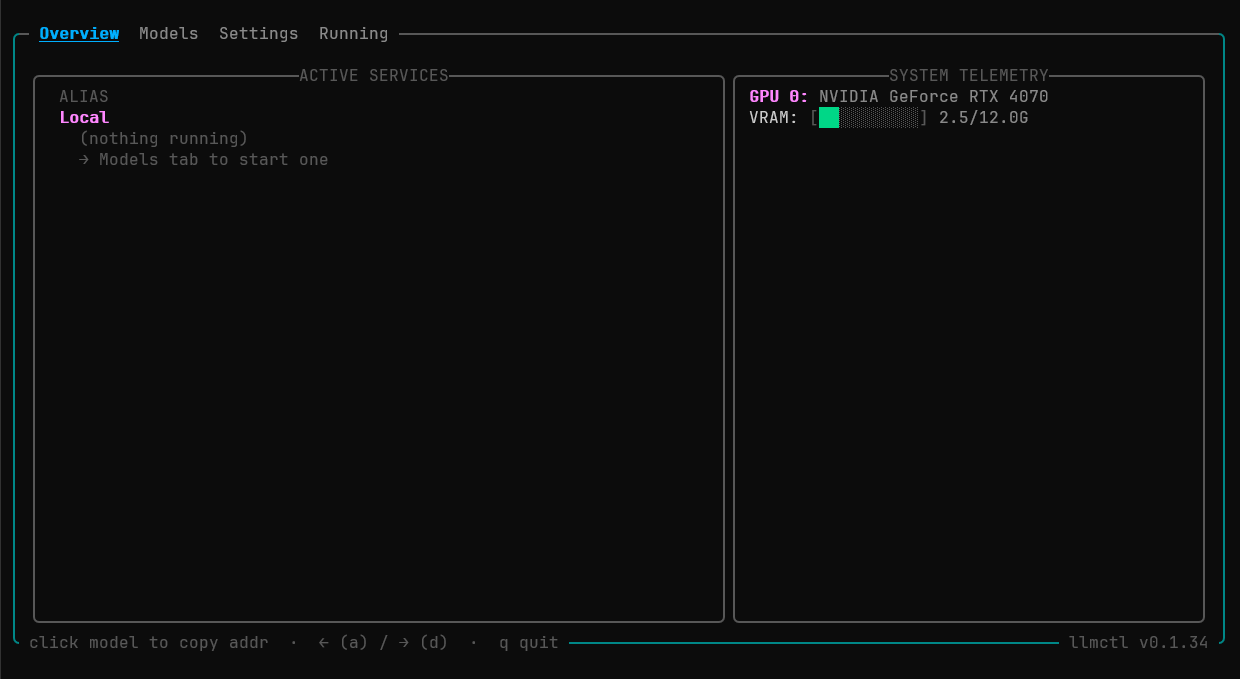
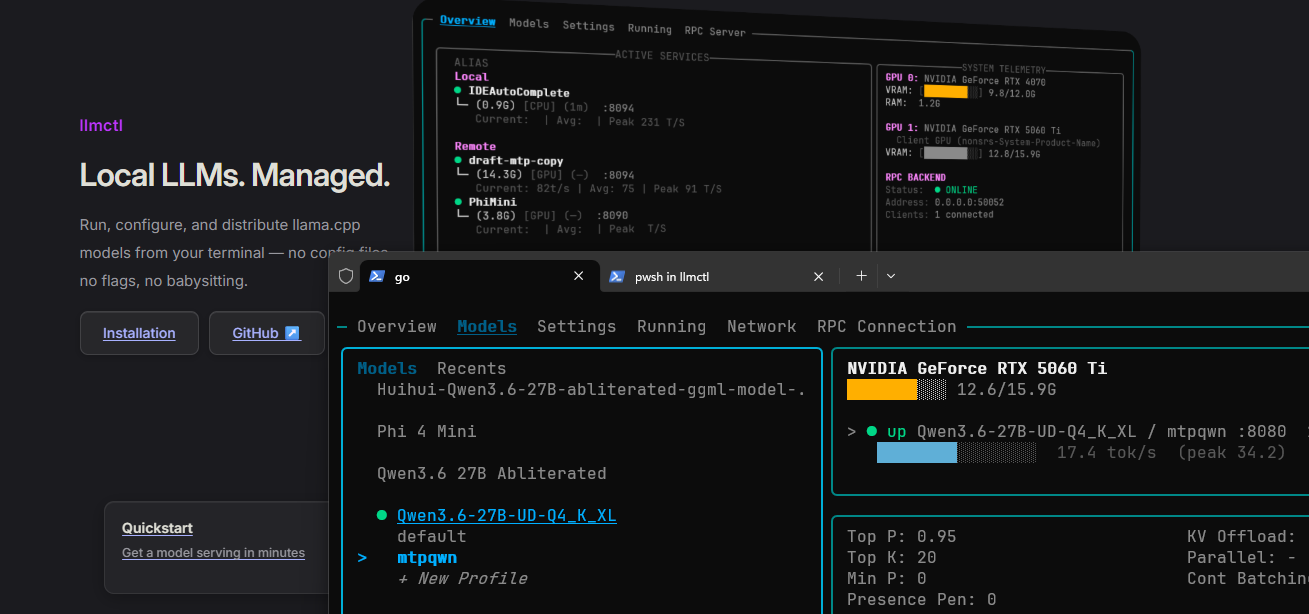
Add RPC layer split slider and redesign docs landing page
Adds a keyboard-controlled slider modal that appears when starting a
model with RPC enabled, letting the user distribute GPU layers between
the local GPU and the remote RPC server via --tensor-split. Also
redesigns the docs index landing page with a full-width hero layout
using the new landingshowcase.png screenshot.

diff --git a/internal/tui/rpc_layer_split.go b/internal/tui/rpc_layer_split.go
@@ -1,0 +1,99 @@
+package tui
+
+import (
+	"fmt"
+	"strings"
+
+	tea "github.com/charmbracelet/bubbletea"
+)
+
+type rpcLayerSplitState struct {
+	modelKey     string
+	profileKey   string
+	label        string
+	totalLayers  int
+	clientLayers int // layers on the local GPU; serverLayers = total - client
+}
+
+// rpcSplitApplies reports whether the RPC layer split slider should be shown
+// for a given row: RPC must be enabled, the profile must have GPU layers, and
+// there must be an actual RPC endpoint to connect to.
+func (m Model) rpcSplitApplies(r row) bool {
+	mdl, ok := m.cfg.Models[r.modelKey]
+	if !ok {
+		return false
+	}
+	p, ok := mdl.Profiles[r.profileKey]
+	if !ok {
+		return false
+	}
+	if p.CPUOnly || p.GPULayers <= 0 {
+		return false
+	}
+	useRPC := m.cfg.RPCEnabled
+	if p.RPCEnabled != nil {
+		useRPC = *p.RPCEnabled
+	}
+	if !useRPC {
+		return false
+	}
+	return strings.TrimSpace(m.discoveredRPCEndpoint) != "" ||
+		strings.TrimSpace(m.cfg.RPCEndpoint) != ""
+}
+
+func (m Model) openRPCLayerSplit(r row) (tea.Model, tea.Cmd) {
+	mdl := m.cfg.Models[r.modelKey]
+	p := mdl.Profiles[r.profileKey]
+	total := p.GPULayers
+	// Default: split evenly, rounding client up.
+	client := (total + 1) / 2
+	m.rpcLayerSplit = rpcLayerSplitState{
+		modelKey:     r.modelKey,
+		profileKey:   r.profileKey,
+		label:        r.label,
+		totalLayers:  total,
+		clientLayers: client,
+	}
+	m.screen = screenRPCLayerSplit
+	return m, nil
+}
+
+func (m Model) updateRPCLayerSplit(msg tea.KeyMsg) (tea.Model, tea.Cmd) {
+	s := &m.rpcLayerSplit
+	switch msg.String() {
+	case "esc":
+		m.screen = screenMain
+	case "left", "h", "a":
+		if s.clientLayers > 0 {
+			s.clientLayers--
+		}
+	case "right", "l", "d":
+		if s.clientLayers < s.totalLayers {
+			s.clientLayers++
+		}
+	case "shift+left", "H", "A":
+		s.clientLayers -= 5
+		if s.clientLayers < 0 {
+			s.clientLayers = 0
+		}
+	case "shift+right", "L", "D":
+		s.clientLayers += 5
+		if s.clientLayers > s.totalLayers {
+			s.clientLayers = s.totalLayers
+		}
+	case "enter", " ":
+		m.screen = screenMain
+		tensorSplit := fmt.Sprintf("%d,%d", s.clientLayers, s.totalLayers-s.clientLayers)
+		r := row{
+			kind:       rowProfile,
+			modelKey:   s.modelKey,
+			profileKey: s.profileKey,
+			label:      s.label,
+		}
+		m.starting = true
+		m.startingLabel = s.label
+		m.clearError()
+		return m, m.startProfileCmdWithSplit(r, tensorSplit)
+	}
+	return m, nil
+}

diff --git a/internal/tui/rpc_layer_split_view.go b/internal/tui/rpc_layer_split_view.go
@@ -1,0 +1,43 @@
+package tui
+
+import (
+	"fmt"
+	"strings"
+
+	"github.com/charmbracelet/lipgloss"
+)
+
+func (m Model) viewRPCLayerSplitModal() string {
+	s := m.rpcLayerSplit
+	serverLayers := s.totalLayers - s.clientLayers
+
+	title := modalTitleStyle.Render("RPC Layer Distribution")
+	sub := profileStyle.Render(s.label)
+
+	const barWidth = 40
+	var filled int
+	if s.totalLayers > 0 {
+		filled = barWidth * s.clientLayers / s.totalLayers
+	}
+	bar := strings.Repeat("█", filled) + strings.Repeat("░", barWidth-filled)
+	barStyled := lipgloss.NewStyle().Foreground(lipgloss.Color("39")).Render(bar)
+
+	localLabel := lipgloss.NewStyle().Foreground(lipgloss.Color("42")).Bold(true).
+		Render(fmt.Sprintf("Local  %3d", s.clientLayers))
+	serverLabel := lipgloss.NewStyle().Foreground(lipgloss.Color("214")).Bold(true).
+		Render(fmt.Sprintf("%3d  Remote", serverLayers))
+	splitLine := fmt.Sprintf("%s  %s  %s", localLabel, barStyled, serverLabel)
+
+	hint := helpStyle.Render("← → adjust · shift+←→ jump 5 · enter start · esc cancel")
+
+	body := lipgloss.JoinVertical(lipgloss.Center,
+		title,
+		"",
+		sub,
+		"",
+		splitLine,
+		"",
+		hint,
+	)
+	return modalStyle.Render(body)
+}

diff --git a/internal/runtime/manager.go b/internal/runtime/manager.go
@@ -76,9 +76,11 @@ func (mgr *Manager) List() ([]models.Running, error) {
 // Start launches modelKey/profileKey from cfg, records it in the state
 // file, and returns the resulting Running entry. It refuses to start a
 // model+profile pair that is already running.
-// Start launches a model profile. rpcEndpointOverride, when non-empty, is used
-// as the --rpc endpoint instead of cfg.RPCEndpoint (e.g. an auto-discovered addr).
-func (mgr *Manager) Start(cfg *config.Config, modelKey, profileKey string, rpcEndpointOverride string) (models.Running, error) {
+// rpcEndpointOverride, when non-empty, is used as the --rpc endpoint instead
+// of cfg.RPCEndpoint (e.g. an auto-discovered addr).
+// tensorSplit, when non-empty, is forwarded as --tensor-split to split GPU
+// layers across the local GPU and the RPC server (e.g. "20,15").
+func (mgr *Manager) Start(cfg *config.Config, modelKey, profileKey string, rpcEndpointOverride string, tensorSplit string) (models.Running, error) {
 	m, p, err := cfg.FindProfile(modelKey, profileKey)
 	if err != nil {
 		return models.Running{}, err
@@ -118,7 +120,7 @@ func (mgr *Manager) Start(cfg *config.Config, modelKey, profileKey string, rpcEn
 		}
 	}
 
-	pid, err := process.Start(cfg.LlamaServerBin, m, p, logPath, rpcEndpoint)
+	pid, err := process.Start(cfg.LlamaServerBin, m, p, logPath, rpcEndpoint, tensorSplit)
 	if err != nil {
 		return models.Running{}, err
 	}

diff --git a/internal/tui/confirm.go b/internal/tui/confirm.go
@@ -53,13 +53,17 @@ func (m Model) updateConfirm(msg tea.KeyMsg) (tea.Model, tea.Cmd) {
 
 	case "enter", " ":
 		m.screen = screenMain
+		r := row{kind: rowProfile, modelKey: m.confirm.modelKey, profileKey: m.confirm.profileKey, label: m.confirm.label}
 		switch m.confirm.selected {
 		case confirmEdit:
 			return m.openEditForm(m.confirm.modelKey, m.confirm.profileKey)
 		case confirmExportArgs:
-			return m.openExportArgs(row{kind: rowProfile, modelKey: m.confirm.modelKey, profileKey: m.confirm.profileKey, label: m.confirm.label})
+			return m.openExportArgs(r)
 		default:
-			return m.runProfile(row{kind: rowProfile, modelKey: m.confirm.modelKey, profileKey: m.confirm.profileKey, label: m.confirm.label})
+			if m.rpcSplitApplies(r) {
+				return m.openRPCLayerSplit(r)
+			}
+			return m.runProfile(r)
 		}
 	}
 	return m, nil

diff --git a/internal/process/process.go b/internal/process/process.go
@@ -162,7 +162,9 @@ func BuildArgs(m models.Model, p models.Profile) []string {
 // profile, detached from the parent process group so it survives the CLI
 // invocation exiting, with stdout/stderr redirected to logPath.
 // rpcEndpoint, when non-empty, appends --rpc <endpoint> to the args.
-func Start(bin string, m models.Model, p models.Profile, logPath string, rpcEndpoint string) (pid int, err error) {
+// tensorSplit, when non-empty, appends --tensor-split <value> to the args
+// (e.g. "20,15" to allocate 20 layers to the local GPU and 15 to the RPC server).
+func Start(bin string, m models.Model, p models.Profile, logPath string, rpcEndpoint string, tensorSplit string) (pid int, err error) {
 	resolvedBin, err := resolveExecutable(bin)
 	if err != nil {
 		return 0, fmt.Errorf("start %s: %w", displayBin(bin), err)
@@ -176,6 +178,9 @@ func Start(bin string, m models.Model, p models.Profile, logPath string, rpcEndp
 	args := BuildArgs(m, p)
 	if rpcEndpoint != "" {
 		args = append(args, "--rpc", rpcEndpoint)
+	}
+	if tensorSplit != "" {
+		args = append(args, "--tensor-split", tensorSplit)
 	}
 	cmd := exec.Command(resolvedBin, args...)
 	cmd.Stdout = logFile

diff --git a/internal/tui/start.go b/internal/tui/start.go
@@ -21,12 +21,16 @@ type startResultMsg struct {
 }
 
 func (m Model) startProfileCmd(r row) tea.Cmd {
+	return m.startProfileCmdWithSplit(r, "")
+}
+
+func (m Model) startProfileCmdWithSplit(r row, tensorSplit string) tea.Cmd {
 	mgr, cfg := m.mgr, m.cfg
 	modelKey, profileKey, label := r.modelKey, r.profileKey, r.label
 	rpcOverride := m.discoveredRPCEndpoint
 	return func() tea.Msg {
 		logPath, _ := runtime.LogPath(modelKey, profileKey)
-		_, err := mgr.Start(cfg, modelKey, profileKey, rpcOverride)
+		_, err := mgr.Start(cfg, modelKey, profileKey, rpcOverride, tensorSplit)
 		if err != nil && !logFileHasContent(logPath) {
 			logPath = ""
 		}

diff --git a/cmd/run.go b/cmd/run.go
@@ -26,7 +26,7 @@ var runCmd = &cobra.Command{
 			return err
 		}
 
-		entry, err := mgr.Start(cfg, modelKey, profileKey, "")
+		entry, err := mgr.Start(cfg, modelKey, profileKey, "", "")
 		if err != nil {
 			return err
 		}

diff --git a/internal/process/process_test.go b/internal/process/process_test.go
@@ -281,7 +281,7 @@ func TestStartMissingExecutableReturnsConfigHintWithoutLog(t *testing.T) {
 	m := models.Model{Name: "Test Model", Path: filepath.Join(t.TempDir(), "model.gguf")}
 	p := models.Profile{Name: "default", Port: 8080}
 
-	_, err := Start("llmctl-definitely-missing-llama-server", m, p, logPath, "")
+	_, err := Start("llmctl-definitely-missing-llama-server", m, p, logPath, "", "")
 	if err == nil {
 		t.Fatal("expected missing executable error")
 	}

diff --git a/internal/tui/update.go b/internal/tui/update.go
@@ -242,6 +242,8 @@ func (m Model) Update(msg tea.Msg) (tea.Model, tea.Cmd) {
 			return m.updateNetworkPicker(msg)
 		case screenRPCServerAction:
 			return m.updateRPCServerAction(msg)
+		case screenRPCLayerSplit:
+			return m.updateRPCLayerSplit(msg)
 		default:
 			return m.updateMain(msg)
 		}

diff --git a/internal/tui/view.go b/internal/tui/view.go
@@ -49,6 +49,8 @@ func (m Model) View() string {
 		return overlayCenter(m.viewMain(), m.viewNetworkPickerModal())
 	case screenRPCServerAction:
 		return overlayCenter(m.viewMain(), m.viewRPCServerActionModal())
+	case screenRPCLayerSplit:
+		return overlayCenter(m.viewMain(), m.viewRPCLayerSplitModal())
 	default:
 		return m.viewMain()
 	}

diff --git a/internal/tui/model.go b/internal/tui/model.go
@@ -107,6 +107,7 @@ type Model struct {
 	stopConfirm          stopConfirmState
 	exportArgs           exportArgsState
 	templatePicker       templatePickerState
+	rpcLayerSplit        rpcLayerSplitState
 
 	tokHistory map[string][]float64
 

diff --git a/internal/tui/model_types.go b/internal/tui/model_types.go
@@ -25,6 +25,7 @@ const (
 	screenNetworkSwitch
 	screenNetworkPicker
 	screenRPCServerAction
+	screenRPCLayerSplit
 )
 
 // paneFocus selects which pane arrow keys/s apply to on the main screen.